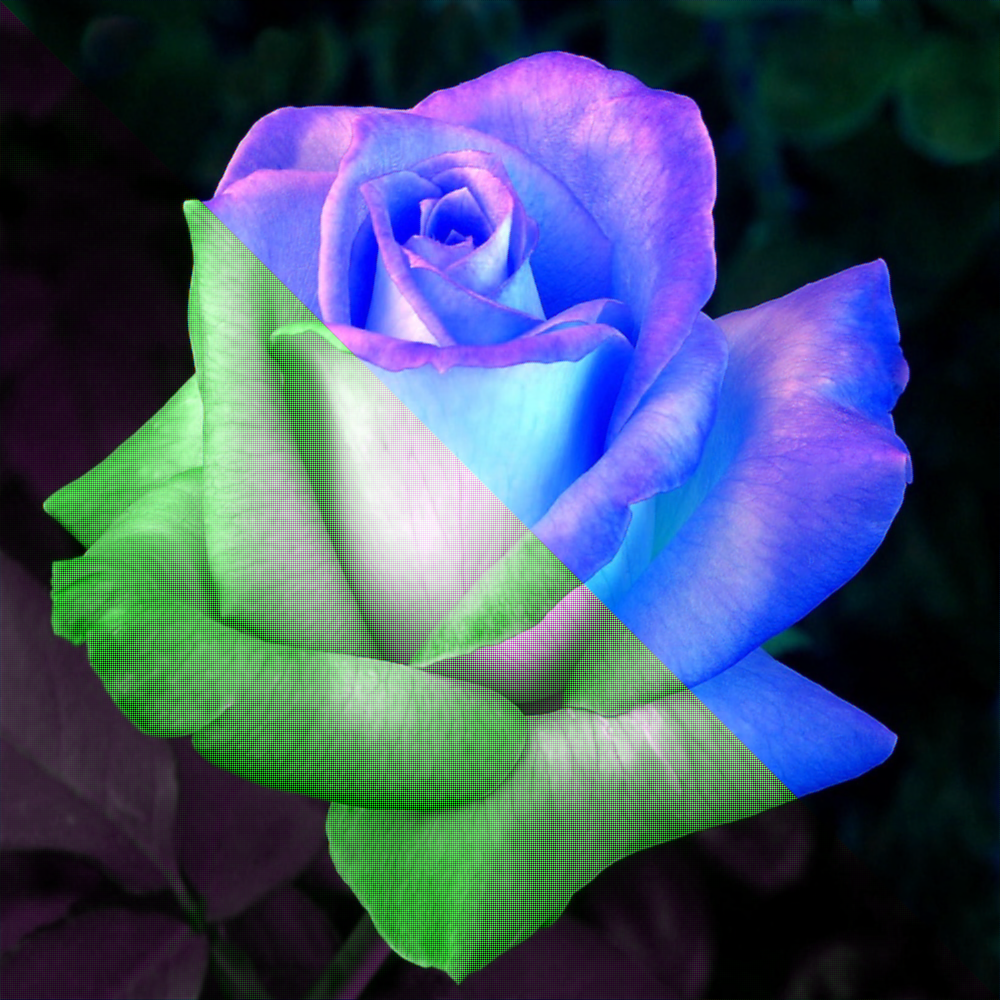
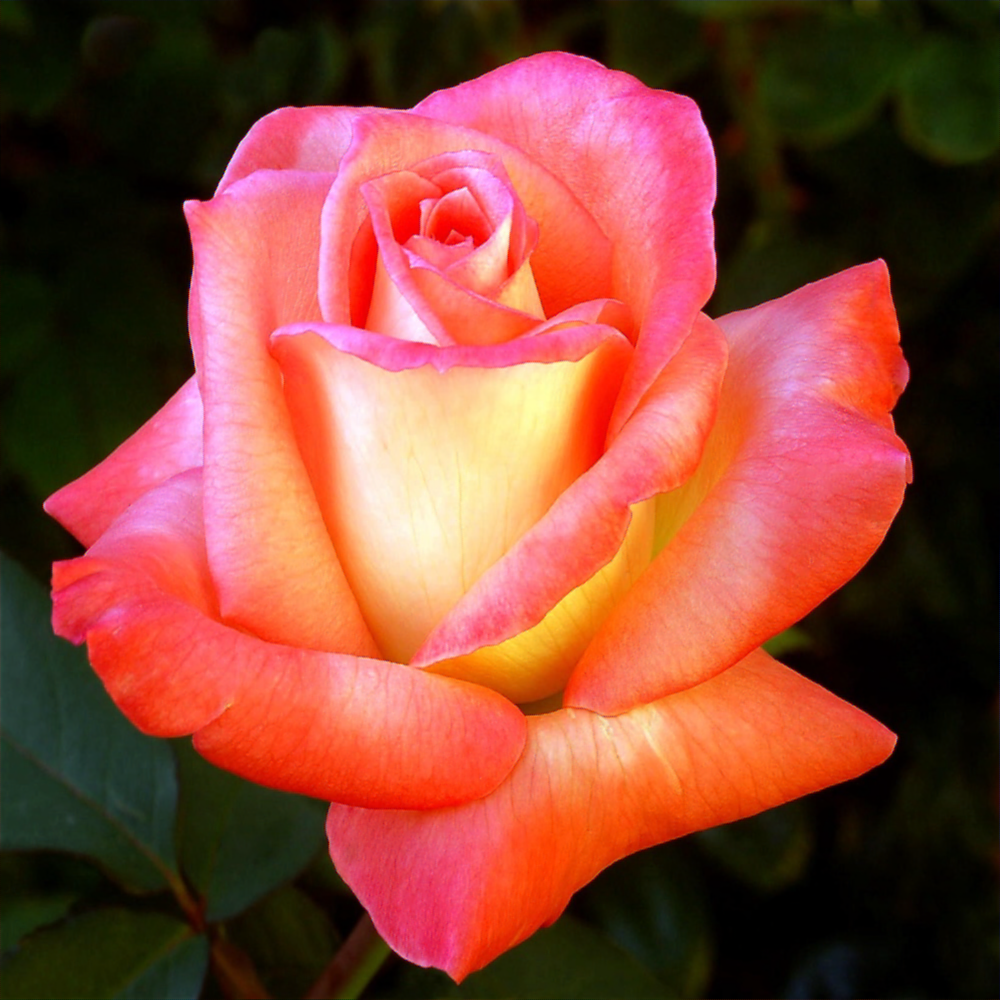
bayer matrix fixed, yay. modulo not zero based in the signal construction

diff --git a/src/processor.rs b/src/processor.rs
@@ -171,15 +171,15 @@ impl Processor {
         let mut modulo = 0;
 
         match self.parameters.order_mode.get() {
-            OrderMode::Column => modulo = self.height,
-            OrderMode::Row => modulo = self.width,
+            OrderMode::Column => modulo = self.height -1,
+            OrderMode::Row => modulo = self.width -1,
             _ => {}
         }
 
         match self.parameters.color_mode.get() {
             ColorMode::Bayer => {
-                let mut bayer_row = false;
-                let mut bayer_column = false;
+                let mut bayer_row = true;
+                let mut bayer_column = true;
                 // alternate between GR and BG, allow for more modularity instead of building the bayer at the ordering stage with a classic array indexing
                 for pixel in self.ordered_picture.clone() {
                     // match color {
@@ -193,8 +193,7 @@ impl Processor {
                         flag = Flag::Reset
                     }
 
-                    let color_index =
-                        self.bayer_matrix[bayer_row as usize][bayer_column as usize] as usize;
+                    let color_index = self.bayer_matrix[bayer_row as usize][bayer_column as usize] as usize;
                     let pixel_value = pixel[color_index];
 
                     self.signal.push((pixel_value as f32, flag));
@@ -253,81 +252,84 @@ impl Processor {
 
         match self.parameters.order_mode.get() {
             OrderMode::Row => {
-
                 let mut dest: &ImageBuffer<Rgba<u8>, Vec<u8>> = &self.destination_image_buffer;
 
                 for x in 0..self.width as usize {
-                    for y in 0..self.height as usize{
-                        
-                                            match self.parameters.color_mode.get() {
-                                                ColorMode::Interleaved => {
-                                                    let r = self.processed_picture[count] as u8;
-                                                    let g = self.processed_picture[count + 1] as u8;
-                                                    let b = self.processed_picture[count + 2] as u8;
-                                                    let a = match self.parameters.alpha_mode.get() {
-                                                        AlphaMode::Delete => 255 as u8,
-                                                        AlphaMode::Interleave => self.processed_picture[count + 3] as u8,
-                                                        AlphaMode::Preserve => {
-                                                            
-                                                            self.source_image_buffer.get_pixel(x as u32, y as u32)[3] as u8
-                                                        }
-                                                    };
-                        
-                                                    *self.destination_image_buffer.get_pixel_mut(x as u32, y as u32) = image::Rgba([r, g, b, a]);
-                                                    count = count + self.number_of_channels;
-                                                }
-                                                ColorMode::Bayer => {
-                                                    let color = self.bayer_matrix[x % 2][y % 2] as usize;
-                                                    let (r, g, b) = self.bayer_dematricing(x, y, color);
-                                                    let a = match self.parameters.alpha_mode.get() {
-                                                        AlphaMode::Delete => 255 as u8,
-                                                        AlphaMode::Interleave => 255, // To do, 4 color marticing ?
-                                                        AlphaMode::Preserve => {
-                                                            self.source_image_buffer.get_pixel(x as u32, y as u32)[3] as u8
-                                                        }
-                                                    };
-                                                    *self.destination_image_buffer.get_pixel_mut(x as u32, y as u32) = image::Rgba([r, g, b, a]);
-                                                    count = count + 1;
-                                                }
-                                                ColorMode::Composite => {
-                                                    let r = self.processed_picture[count] as u8;
-                                                    let g = self.processed_picture[count + offset] as u8;
-                                                    let b = self.processed_picture[count + (offset * 2)] as u8;
-                                                    let mut a = 255;
-                        
-                                                    match self.parameters.alpha_mode.get() {
-                                                        AlphaMode::Delete => {}
-                                                        AlphaMode::Interleave => {
-                                                            a = self.processed_picture[count + (offset * 3)] as u8;
-                                                        }
-                                                        AlphaMode::Preserve => {
-                                                            a = self.source_image_buffer[(x as u32, y as u32)].0[3];
-                                                        }
-                                                    }
-                        
-                                                    *self.destination_image_buffer.get_pixel_mut(x as u32, y as u32) = image::Rgba([r, g, b, a]);
-                                                    count = count + 1;
-                                                }
-                                            }
+                    for y in 0..self.height as usize {
+                        match self.parameters.color_mode.get() {
+                            ColorMode::Interleaved => {
+                                let r = self.processed_picture[count] as u8;
+                                let g = self.processed_picture[count + 1] as u8;
+                                let b = self.processed_picture[count + 2] as u8;
+                                let a = match self.parameters.alpha_mode.get() {
+                                    AlphaMode::Delete => 255 as u8,
+                                    AlphaMode::Interleave => {
+                                        self.processed_picture[count + 3] as u8
+                                    }
+                                    AlphaMode::Preserve => {
+                                        self.source_image_buffer.get_pixel(x as u32, y as u32)[3]
+                                            as u8
+                                    }
+                                };
 
+                                *self
+                                    .destination_image_buffer
+                                    .get_pixel_mut(x as u32, y as u32) = image::Rgba([r, g, b, a]);
+                                count = count + self.number_of_channels;
+                            }
+                            ColorMode::Bayer => {
+                                let color = self.bayer_matrix[x % 2][y % 2] as usize;
+                                let (r, g, b) = self.bayer_dematricing(x, y, color);
+                                let a = match self.parameters.alpha_mode.get() {
+                                    AlphaMode::Delete => 255 as u8,
+                                    AlphaMode::Interleave => 255, // To do, 4 color marticing ?
+                                    AlphaMode::Preserve => {
+                                        self.source_image_buffer.get_pixel(x as u32, y as u32)[3]
+                                            as u8
+                                    }
+                                };
+                                *self
+                                    .destination_image_buffer
+                                    .get_pixel_mut(x as u32, y as u32) = image::Rgba([r, g, b, a]);
+                                count = count + 1;
+                            }
+                            ColorMode::Composite => {
+                                let r = self.processed_picture[count] as u8;
+                                let g = self.processed_picture[count + offset] as u8;
+                                let b = self.processed_picture[count + (offset * 2)] as u8;
+                                let mut a = 255;
+
+                                match self.parameters.alpha_mode.get() {
+                                    AlphaMode::Delete => {}
+                                    AlphaMode::Interleave => {
+                                        a = self.processed_picture[count + (offset * 3)] as u8;
+                                    }
+                                    AlphaMode::Preserve => {
+                                        a = self.source_image_buffer[(x as u32, y as u32)].0[3];
+                                    }
+                                }
+
+                                *self
+                                    .destination_image_buffer
+                                    .get_pixel_mut(x as u32, y as u32) = image::Rgba([r, g, b, a]);
+                                count = count + 1;
+                            }
+                        }
                     }
                 }
-                
             }
             OrderMode::Column => {}
             _ => {}
         }
-        }
-    
+    }
 
     pub fn coord_to_signal(&mut self, x: usize, y: usize) -> f32 {
-
         let index = ((x as usize) + y * self.height as usize) as usize % self.signal.len();
         return self.signal[index].0 as f32;
     }
 
     //   A
-    // A X A average NESW
+    // A X A average North East South West
     //   A
     // this could be done by conbining the two horizontal and vertical dematricing
     pub fn straight_cross_matrix(&mut self, x: usize, y: usize) -> u8 {
@@ -349,7 +351,7 @@ impl Processor {
             / 4.0) as u8
     }
 
-    // A X A
+    // A X A average East West
 
     pub fn horizontal_matrix(&mut self, x: usize, y: usize) -> u8 {
         ((self.coord_to_signal(x.saturating_sub(1), y) + self.coord_to_signal(x + 1, y)) / 2.0)
@@ -357,7 +359,7 @@ impl Processor {
     }
 
     //  A
-    //  X
+    //  X average North South
     //  A
 
     pub fn vertical_matrix(&mut self, x: usize, y: usize) -> u8 {
@@ -379,9 +381,9 @@ impl Processor {
                 b = self.oblique_cross_matrix(x, y);
             }
 
-            // Green         
+            // Green
             // G B G        G R G
-            // R G R   or   B G B     thus the if statement 
+            // R G R   or   B G B     thus the if statement
             // G B G        G R G
             1 => {
                 g = self.coord_to_signal(x, y) as u8;